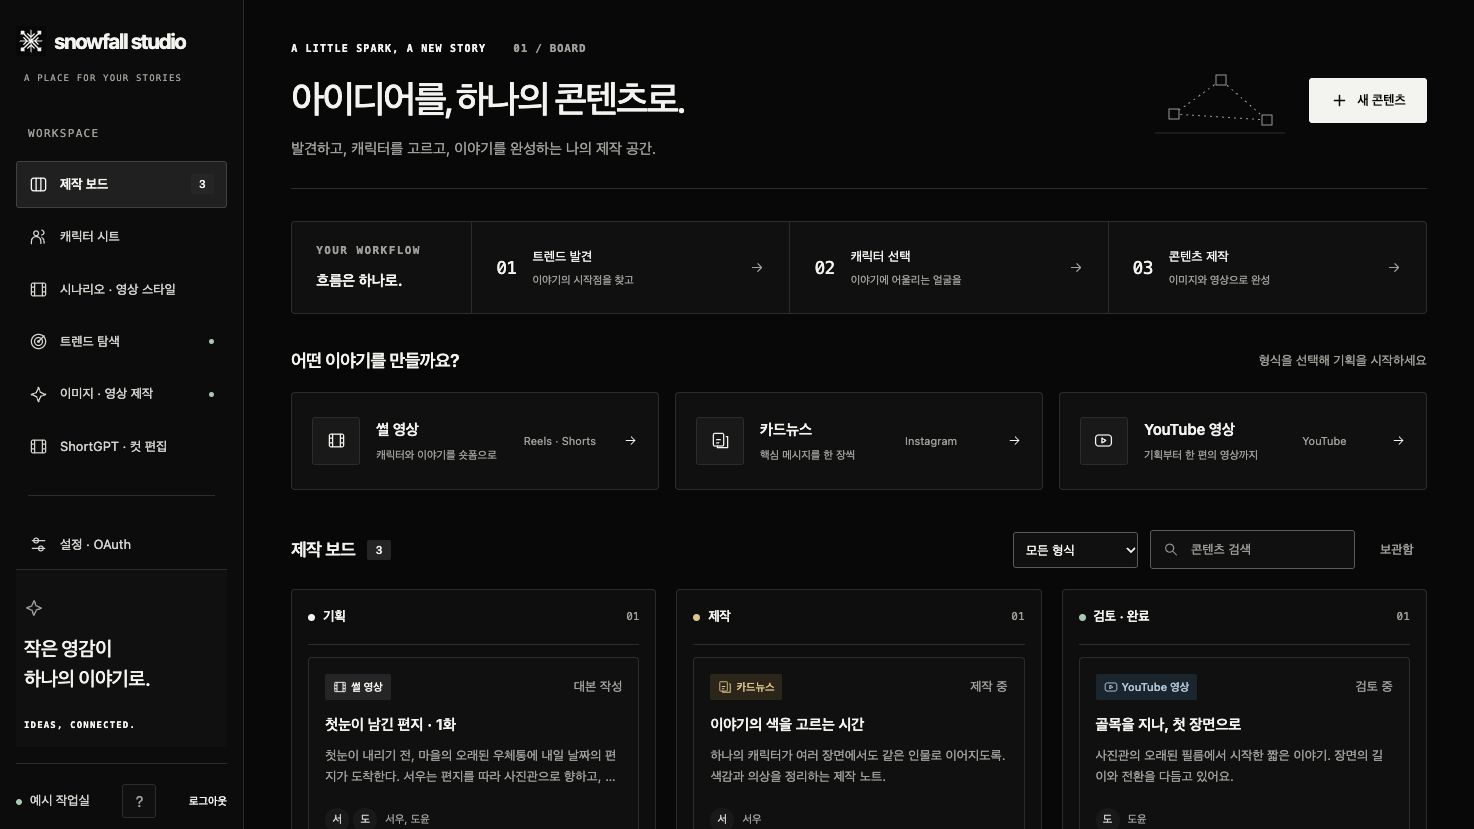
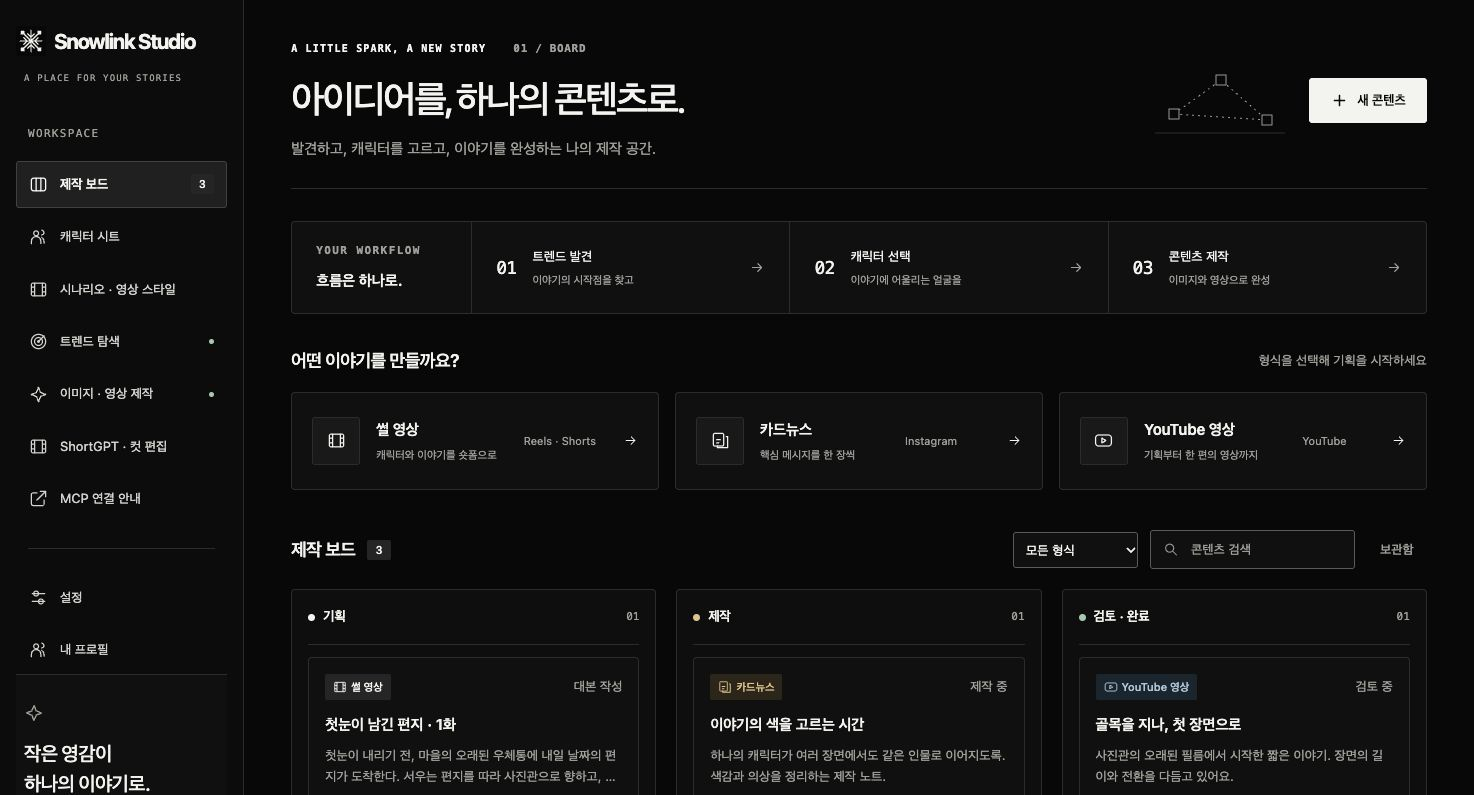
docs: refresh company screenshots for Snowlink Studio

diff --git a/apps/company/components/ProductShowcase.jsx b/apps/company/components/ProductShowcase.jsx
@@ -15,7 +15,7 @@ const screens = [
 export function ProductShowcase({ productName }) {
   const [selected, setSelected] = useState(0);
   const screen = screens[selected];
-  const source = `/screenshots/${screen.id}.jpg?v=20261007-snowfall-studio`;
+  const source = `/screenshots/${screen.id}.jpg?v=20261008-snowlink-studio`;
 
   return <section className="company-showcase" aria-labelledby="showcase-title">
     <div className="company-showcase-heading">
@@ -28,7 +28,7 @@ export function ProductShowcase({ productName }) {
     <figure id="company-screen" className="company-screen">
       <div className="company-screen-bar"><span><i/><i/><i/></span><span>{productName}</span><span>{String(selected + 1).padStart(2, '0')} / {String(screens.length).padStart(2, '0')}</span></div>
       <a className="company-screen-image" href={source} target="_blank" rel="noopener noreferrer" aria-label={`${screen.label} 화면 원본 크게 보기 (새 탭)`}>
-        <img key={screen.id} src={source} width="1474" height="829" loading="lazy" alt={`${productName} ${screen.label} 탭의 실제 화면 — ${screen.title}`}/>
+        <img key={screen.id} src={source} width="1474" height="795" loading="lazy" alt={`${productName} ${screen.label} 탭의 실제 화면 — ${screen.title}`}/>
       </a>
       <figcaption>
         <div aria-live="polite"><h4>{screen.title}</h4><p>{screen.description}</p></div>

diff --git a/apps/company/styles/company.css b/apps/company/styles/company.css
@@ -90,7 +90,7 @@ html { scroll-behavior: smooth; scroll-padding-top: 28px; }
 .company-screen-bar>span:first-child { display: flex; gap: 5px; }
 .company-screen-bar i { width: 5px; height: 5px; border: 1px solid #62625e; }
 .company-screen-image { display: block; background: #f9f8f4; cursor: zoom-in; }
-.company-screen-image img { display: block; width: 100%; height: auto; aspect-ratio: 1474/829; object-fit: contain; }
+.company-screen-image img { display: block; width: 100%; height: auto; aspect-ratio: 1474/795; object-fit: contain; }
 .company-screen figcaption { display: flex; align-items: center; justify-content: space-between; gap: 24px; padding: 27px 30px; border-top: 1px solid #333; }
 .company-screen h4 { margin: 0; font-size: 17px; font-weight: 500; letter-spacing: -.03em; }
 .company-screen figcaption p { max-width: 700px; margin-top: 8px; color: var(--color-text-muted); font-size: 12px; line-height: 1.8; }

diff --git a/apps/company/README.md b/apps/company/README.md
@@ -39,9 +39,9 @@ npm run dev
 
 `components/ProductDetails.jsx`는 제작 흐름 4단계와 기획·캐릭터·시나리오·이미지/영상·컷 편집·MCP의 상세 설명을 표시합니다. 문구는 `lib/config.js`의 `workflow`, `productDetails`에서 관리합니다. 콘티 MP4는 무음 미리보기로 안내하며, 구현되지 않은 음성·음악·최종 영상 자동 합성을 제공한다고 설명하지 않습니다.
 
-현재 캡처는 2026년 10월 7일 이름 변경 전 `snowfall studio` UI를 촬영한 이미지입니다. `Snowlink Studio`로 이름을 변경한 뒤의 캡처 갱신은 Mac의 시스템 DNS 캐시 해소 후 진행합니다. 제작 보드, 캐릭터 시트, 시나리오, 트렌드 탐색, 이미지·영상 제작, 컷 편집의 6개 화면이며 설정·OAuth 소개 탭과 캡처는 포함하지 않습니다.
+현재 캡처는 2026년 10월 8일 `studio.snowlink.team`의 `Snowlink Studio` UI를 소개용 예시 계정으로 촬영한 이미지입니다. 제작 보드, 캐릭터 시트, 시나리오, 트렌드 탐색, 이미지·영상 제작, 컷 편집의 6개 화면이며 설정·OAuth 소개 탭과 캡처는 포함하지 않습니다.
 
-소개용 계정의 예시 캐릭터·기획·컷·플롯을 사용하고, 트렌드는 촬영 당시 공개 수집 결과를 표시합니다. 실제 고객 콘텐츠와 개인 OAuth 정보는 포함하지 않습니다. 이미지는 보정 없이 브라우저 화면을 저장한 JPEG이며 크기는 1474 × 829입니다. 화면 갱신 시 같은 파일명으로 교체하고 `ProductShowcase.jsx`의 이미지 버전도 변경해 이전 캡처 캐시를 구분하세요.
+소개용 계정의 예시 캐릭터·기획·컷·플롯을 사용하고, 트렌드는 촬영 당시 공개 수집 결과를 표시합니다. 실제 고객 콘텐츠와 개인 OAuth 정보는 포함하지 않습니다. 이미지는 보정 없이 브라우저 화면을 저장한 JPEG이며 크기는 1474 × 795입니다. 화면 갱신 시 같은 파일명으로 교체하고 `ProductShowcase.jsx`의 이미지 버전도 변경해 이전 캡처 캐시를 구분하세요.
 
 캡처와 검증에는 배포된 프론트를 사용합니다. Mac mini에는 프론트 서버를 상시 또는 임시로 띄우지 않습니다.
 
